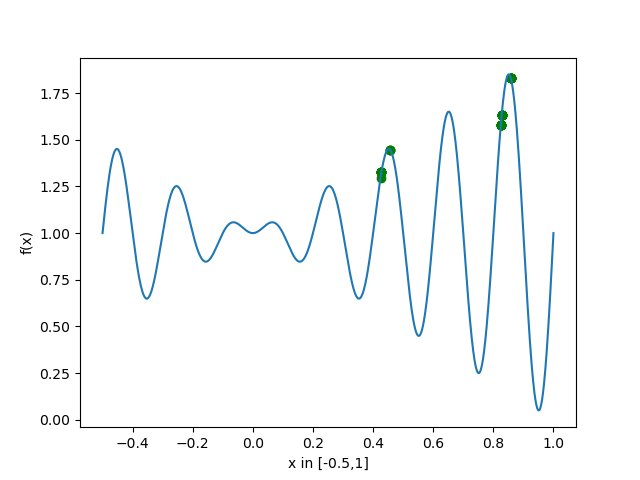
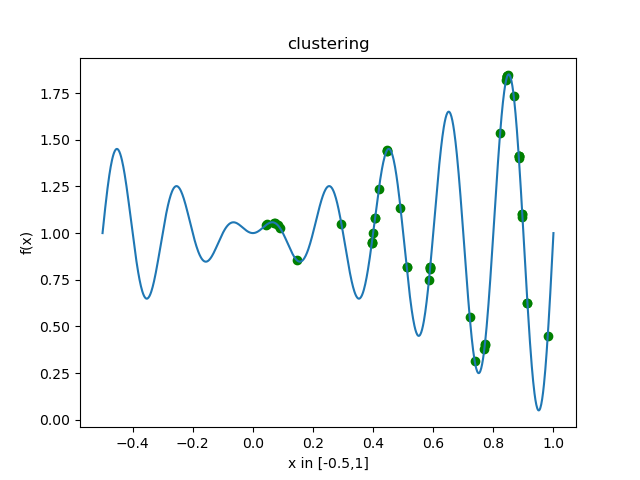
add simulated annealing

diff --git a/MiniProject5: Simulated Annealing/sa.py b/MiniProject5: Simulated Annealing/sa.py
@@ -1,0 +1,76 @@
+import math
+
+import numpy as np
+from numpy.random import rand, seed
+from matplotlib import pyplot as plt
+from decimal import Decimal, localcontext
+
+
+def objective(x):
+    return x * math.sin(10 * math.pi * x) + 1  # step[0] ** 2.0
+
+
+def annealing_schedule(ch, temp, alpha, i):
+    with localcontext() as ctx:
+        ctx.prec = 100
+
+        if ch == "slow":
+            t = temp * Decimal(Decimal(alpha) ** i)
+        else:
+            t = temp - alpha * i
+    return t
+
+
+def sa(objective, iterations, temperature, beta, a_schedule):
+    # Choose a random microstate
+    x = np.random.uniform(low=0.0, high=0.03)
+    y = objective(x)
+    x_best, y_best = x, y
+    y_updates = []
+    funct_evals = []
+    for i in range(iterations):
+        # Choose a nearby microstate
+        x1 = x_best + np.random.uniform(low=0.0, high=0.03)
+        x1 = max(min(x1, 1.0), -0.5)
+        y1 = objective(x1)
+        del_y = y1 - y
+
+        if del_y < 0:
+            x, y = x1, y1
+            y_updates.append(y1)
+            funct_evals.append(i + 1)
+        difference = y1 - y_best
+        alpha = y1 / y_best
+
+        if i % beta == 0:
+            if i != 0:
+                t = annealing_schedule(a_schedule, temperature, alpha, i)
+            else:
+                t = temperature
+        # Metropolis  Acceptance Probability
+        metropolis = np.exp(Decimal(-difference) / Decimal(t))
+        if difference < 0 or rand() < metropolis:
+            x_best, y_best = x1, y1
+    return [funct_evals, y_updates]
+
+
+if __name__ == "__main__":
+
+    # initial temperature
+    temperature = 12
+    # define the total no. of iterations
+    iterations = 1200
+    beta = 20
+    for a_s in ["fast", "slow"]:
+        # perform the simulated annealing
+        f_evals, y_updates = sa(objective, iterations, temperature, beta, a_s)
+        # plotting the values
+        if a_s == "fast":
+            plt.plot(f_evals, y_updates, 'ro-', label=a_s)
+        else:
+            plt.plot(f_evals, y_updates, 'bo-', label=a_s)
+    plt.legend()
+    plt.xlabel('function evaluations')
+    plt.ylabel('Loss')
+    plt.savefig("sa4.png")
+    plt.show()

diff --git a/MiniProject6:PSO/pso.py b/MiniProject6:PSO/pso.py
@@ -1,0 +1,65 @@
+import numpy as np
+import matplotlib.pyplot as plt
+from matplotlib.animation import FuncAnimation
+
+
+def f(x, y):
+    return (x - 3.14) ** 2 + (y - 2.72) ** 2 + np.sin(3 * x + 1.41) + np.sin(4 * y - 1.73)
+
+
+def update(a, up, ug, objs):
+    # Update params
+    global V, X, pbest, pbest_obj, gbest, gbest_obj
+    rp = np.random.uniform(low=0.0, high=up)
+    rg = np.random.uniform(low=0.0, high=ug)
+
+    V += a * (rp * (pbest - X) + rg * (gbest.reshape(-1, 1) - X))
+    X += V
+    obj = f(X[0], X[1])
+
+    pbest[:, (pbest_obj >= obj)] = X[:, (pbest_obj >= obj)]
+    pbest_obj = np.array([pbest_obj, obj]).min(axis=0)
+    gbest = pbest[:, pbest_obj.argmin()]
+    gbest_obj = pbest_obj.min()
+    objs.append(gbest_obj)
+
+
+for j in range(5):
+    a = 0.1
+    up, ug = 0.5, 0.5 + j * 0.3
+    objs = []
+
+    # Compute and plot the function in 3D within [0,5]x[0,5]
+    x, y = np.array(np.meshgrid(np.linspace(0, 5, 100), np.linspace(0, 5, 100)))
+    z = f(x, y)
+
+    # Find the global minimum
+    x_min = x.ravel()[z.argmin()]
+    y_min = y.ravel()[z.argmin()]
+
+    # Hyper-parameter of the algorithm
+
+    # Create particles
+    n_particles = 20
+    np.random.seed(100)
+    X = np.random.rand(2, n_particles) * 5
+    V = np.random.randn(2, n_particles) * 0.1
+
+    # Initialize data
+    pbest = X
+    pbest_obj = f(X[0], X[1])
+    gbest = pbest[:, pbest_obj.argmin()]
+    gbest_obj = pbest_obj.min()
+    for i in range(20):
+        update(a, up, ug, objs)
+
+    print("PSO found best solution at f({})={}".format(gbest, gbest_obj))
+    print("Global optimal at f({})={}".format([x_min, y_min], f(x_min, y_min)))
+
+    plt.plot(objs, label=str(j))
+
+plt.legend()
+plt.xlabel('global best')
+plt.ylabel('# iterations')
+plt.show()
+# plt.close()

diff --git a/MiniProject4/multimodal.py b/MiniProject4/multimodal.py
@@ -26,6 +26,7 @@ def plot_obj(nx, ny, filename):
     x = np.linspace(-0.5, 1, 1000, endpoint=True, dtype=float)
     vect_obj = np.vectorize(objective)
     y = vect_obj(x)
+    plt.title(filename)
     plt.xlabel('x in [-0.5,1]')
     plt.ylabel('f(x)')
     plt.plot(x, y)
@@ -160,4 +161,4 @@ def genetic_algo(M, R, max_gen=None, cross_prob=None, mut_prob=None, niching="wi
 
 if __name__ == "__main__":
     for n in ["sharing", "clustering", "without_niching"]:
-        genetic_algo(50, 20, max_gen=200, cross_prob=0.8, mut_prob=0.0, niching=n)
+        genetic_algo(50, 20, max_gen=400, cross_prob=0.8, mut_prob=0.3, niching=n)
